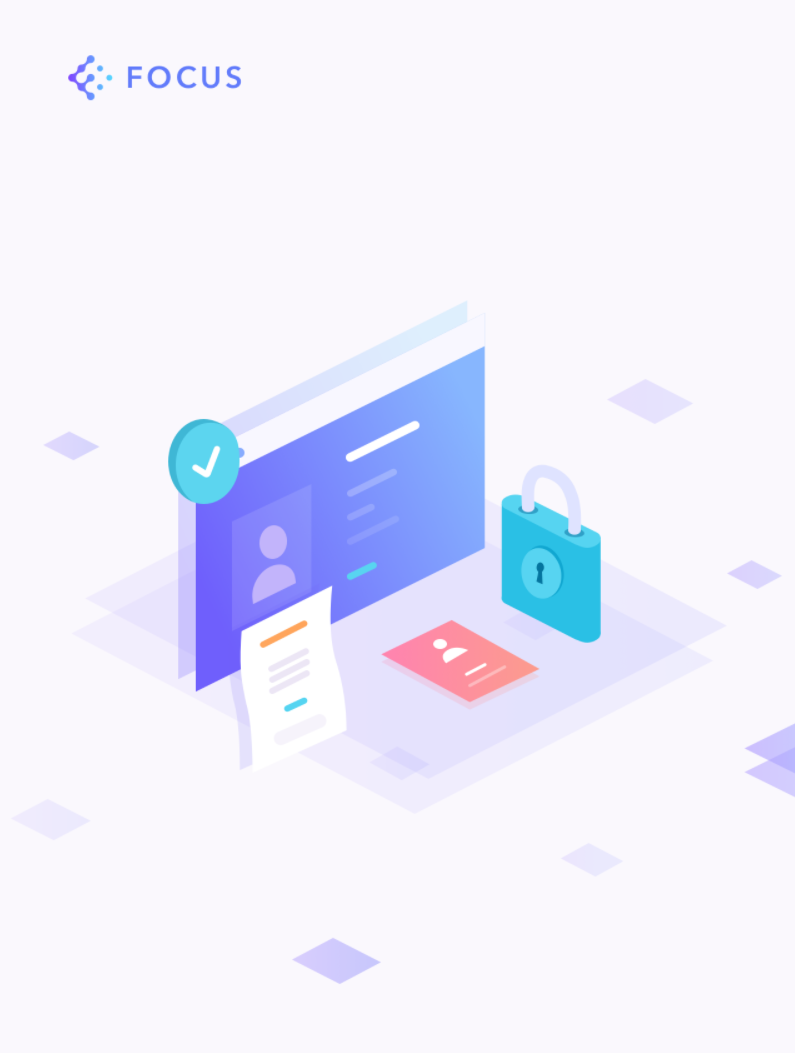
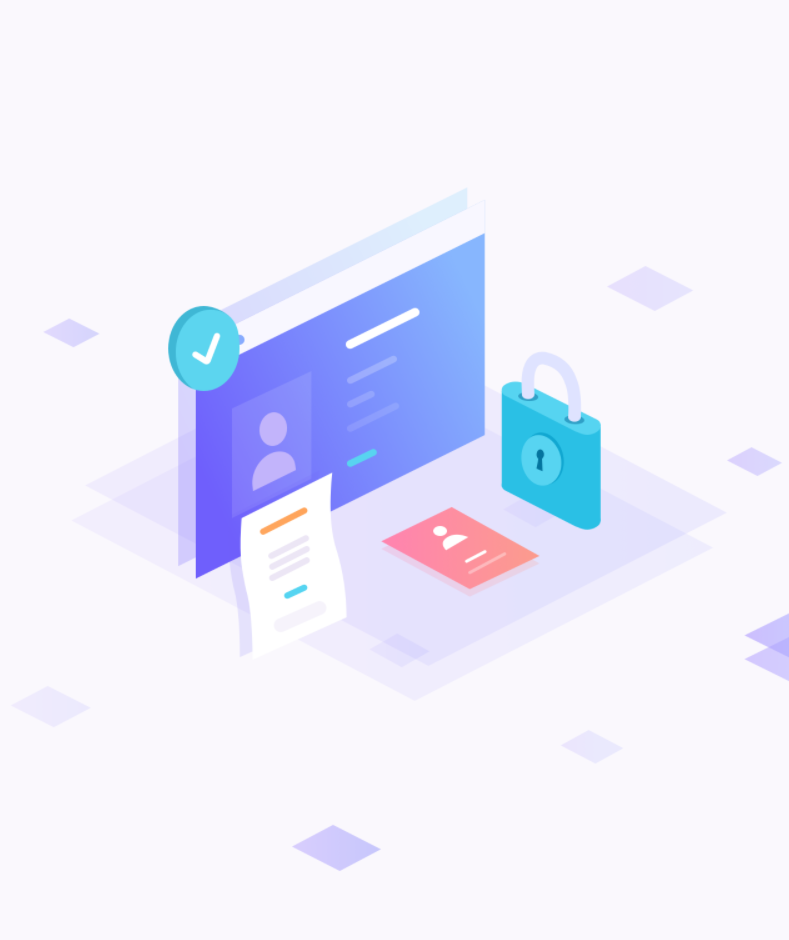
add comp cadastrar

diff --git a/src/app/pages/cadastrar/cadastrar.component.html b/src/app/pages/cadastrar/cadastrar.component.html
@@ -1,0 +1,48 @@
+<form [formGroup]="form" class="auth-container">
+  <div class="form-cadastro">
+    <mat-card class="cadastro">
+      <mat-card-header>
+        <mat-card-title>Dados Pessoais</mat-card-title>
+        <mat-card-subtitle>Faça seu cadastro é seguro e gratuito!</mat-card-subtitle>
+      </mat-card-header>
+      <mat-card-content>
+        <p>
+          <mat-form-field [appearance]="'fill'" class="cmp">
+            <mat-label>Nome Completo</mat-label>
+            <input matInput formControlName="nome" required placeholder="Nome Completo" type="text" required>
+            <mat-error>Nome Completo obrigatório</mat-error>
+          </mat-form-field>
+        </p>
+
+        <p>
+          <mat-form-field [appearance]="'fill'" class="cmp">
+            <mat-label>E-mail</mat-label>
+            <input matInput formControlName="email" required placeholder="seu@email.com" type="email" required>
+            <mat-error>Email obrigatório</mat-error>
+          </mat-form-field>
+        </p>
+
+        <p>
+          <mat-form-field [appearance]="'fill'" class="cmp">
+            <mat-label>Senha</mat-label>
+            <input matInput type="password" formControlName="senha" required>
+            <mat-error>Senha obrigatória</mat-error>
+          </mat-form-field>
+        </p>
+
+        <p>
+          <mat-form-field [appearance]="'fill'" class="cmp">
+            <mat-label>Confirmar Senha</mat-label>
+            <input matInput type="password" formControlName="senha" required>
+            <mat-error>Confirmar Senha obrigatória</mat-error>
+          </mat-form-field>
+        </p>
+      </mat-card-content>
+      <mat-card-actions>
+        <button  color="primary" mat-button [disabled]="form.invalid">Cadastrar-se</button>
+      </mat-card-actions>
+      <mat-error *ngIf="mensagemError">{{mensagemError}}</mat-error>
+    </mat-card>
+  </div>
+</form>
+

diff --git a/src/app/pages/login/login.component.ts b/src/app/pages/login/login.component.ts
@@ -1,5 +1,7 @@
+import { AuthService } from './../../services/auth.service';
 import { Component, OnInit } from '@angular/core';
-import { FormControl, FormGroup } from '@angular/forms';
+import { FormControl, FormGroup, FormBuilder, Validators } from '@angular/forms';
+import { Router } from '@angular/router';
 
 @Component({
   selector: 'app-login',
@@ -8,14 +10,46 @@ import { FormControl, FormGroup } from '@angular/forms';
 })
 export class LoginComponent implements OnInit {
 
-  constructor() { }
+  public mensagemError: string = '';
+  public form: FormGroup;
 
-  public form: FormGroup = new FormGroup({
-    email: new FormControl(),
-    senha: new FormControl(),
-  });
+  constructor(
+    private router: Router,
+    private auth: AuthService,
+    private formBuilder: FormBuilder
+  ) {
+    this.form = this.formBuilder.group({
+      email: [null, Validators.compose([
+        Validators.required,
+        Validators.email
+      ])],
+      senha: [null, Validators.required]
+    });
+  }
 
   ngOnInit(): void {
+  }
+
+
+  public login() {
+    this.auth.logar(this.form.value).subscribe((resposta:  any) =>{
+        console.log(resposta);
+        this.auth.token = resposta.data.token;
+        this.mensagemError = '';
+        this.router.navigateByUrl('admin');
+        return;
+    },
+    error =>{
+      console.log(error);
+      this.mensagemError = error.error.message;
+      setTimeout(() => {
+        this.mensagemError = '';
+      }, 5000);
+    });
+  }
+
+  public cadastrar(): void {
+    this.router.navigateByUrl('cadastrar');
   }
 
 }

diff --git a/src/app/app.module.ts b/src/app/app.module.ts
@@ -1,3 +1,4 @@
+import { HttpClientModule } from '@angular/common/http';
 import { MaterialModule } from './modules/material.module';
 
 import { NgModule } from '@angular/core';
@@ -10,12 +11,14 @@ import { FormsModule, ReactiveFormsModule } from '@angular/forms';
 import { AppComponent } from './app.component';
 import { LoginComponent } from './pages/login/login.component';
 import { AdminComponent } from './pages/admin/admin.component';
+import { CadastrarComponent } from './pages/cadastrar/cadastrar.component';
 
 @NgModule({
   declarations: [
     AppComponent,
     LoginComponent,
-    AdminComponent
+    AdminComponent,
+    CadastrarComponent
   ],
   imports: [
     BrowserModule,
@@ -23,7 +26,8 @@ import { AdminComponent } from './pages/admin/admin.component';
     BrowserAnimationsModule,
     FormsModule,
     ReactiveFormsModule,
-    MaterialModule
+    MaterialModule,
+    HttpClientModule
   ],
   providers: [],
   bootstrap: [AppComponent]

diff --git a/src/app/pages/cadastrar/cadastrar.component.ts b/src/app/pages/cadastrar/cadastrar.component.ts
@@ -1,0 +1,33 @@
+import { FormGroup, FormBuilder, Validators } from '@angular/forms';
+import { Component, OnInit } from '@angular/core';
+
+@Component({
+  selector: 'app-cadastrar',
+  templateUrl: './cadastrar.component.html',
+  styleUrls: ['./cadastrar.component.css']
+})
+export class CadastrarComponent implements OnInit {
+
+  public mensagemError: string = '';
+  public form: FormGroup;
+
+  constructor(
+    private formBuilder: FormBuilder
+  ) {
+    this.form = this.formBuilder.group({
+      nome: [null, Validators.required],
+      email: [null, Validators.compose([
+        Validators.required,
+        Validators.email
+      ])],
+      senha: [null, Validators.required],
+      confirmarSenha: [null, Validators.required]
+    });
+   }
+
+   ngOnInit() {
+
+   }
+
+
+}

diff --git a/src/styles.css b/src/styles.css
@@ -31,3 +31,36 @@ body { margin: 0; font-family: Roboto, "Helvetica Neue", sans-serif; }
 ::-webkit-scrollbar-thumb:hover {
   background: #673ab7;
 }
+
+.auth-container {
+  width: 100%;
+  height: 100%;
+  background-image: url('assets/ilustracao-login.png');
+  display: flex;
+  justify-content: center;
+  background-position: bottom;
+}
+.auth-container mat-card {
+  margin-top: 5%;
+  height: 400px;
+  display: flex;
+}
+
+.auth-container mat-card-field {
+  width: 100%;
+  max-width: 500px;
+}
+
+.auth-container mat-form-field{
+  width: 100%;
+  margin-bottom: 16px;
+}
+
+.auth-container mat-card-content{
+  padding-top: 32px;
+}
+
+.auth-container mat-card-actions{
+  display: flex;
+  justify-content: flex-end;
+}

diff --git a/src/app/pages/cadastrar/cadastrar.component.spec.ts b/src/app/pages/cadastrar/cadastrar.component.spec.ts
@@ -1,0 +1,25 @@
+import { ComponentFixture, TestBed } from '@angular/core/testing';
+
+import { CadastrarComponent } from './cadastrar.component';
+
+describe('CadastrarComponent', () => {
+  let component: CadastrarComponent;
+  let fixture: ComponentFixture<CadastrarComponent>;
+
+  beforeEach(async () => {
+    await TestBed.configureTestingModule({
+      declarations: [ CadastrarComponent ]
+    })
+    .compileComponents();
+  });
+
+  beforeEach(() => {
+    fixture = TestBed.createComponent(CadastrarComponent);
+    component = fixture.componentInstance;
+    fixture.detectChanges();
+  });
+
+  it('should create', () => {
+    expect(component).toBeTruthy();
+  });
+});

diff --git a/src/app/pages/login/login.component.html b/src/app/pages/login/login.component.html
@@ -1,8 +1,6 @@
 <div class="background-login">
 
-  <div class="ilustracao">
-
-  </div>
+  <div class="ilustracao"></div>
 
   <div class="form-login">
 
@@ -33,8 +31,10 @@
 
         </mat-card-content>
         <mat-card-actions align="end">
-            <button color="primary" mat-button>Entrar</button>
+            <button mat-button  (click)="cadastrar()">Cadastre-se</button>
+            <button [disabled]="form.invalid" color="primary" mat-button (click)="login()">Entrar</button>
         </mat-card-actions>
+        <mat-error *ngIf="mensagemError !== '' ">{{mensagemError}}</mat-error>
       </mat-card>
     </form>
 

diff --git a/src/app/app-routing.module.ts b/src/app/app-routing.module.ts
@@ -1,3 +1,4 @@
+import { CadastrarComponent } from './pages/cadastrar/cadastrar.component';
 import { AdminComponent } from './pages/admin/admin.component';
 import { LoginComponent } from './pages/login/login.component';
 import { NgModule } from '@angular/core';
@@ -6,6 +7,7 @@ import { Routes, RouterModule } from '@angular/router';
 const routes: Routes = [
   {path: '', redirectTo: 'login', pathMatch: 'full' },
   { path: 'login', component: LoginComponent},
+  { path: 'cadastrar', component: CadastrarComponent},
   {
     path: 'admin', component: AdminComponent,
     children: [

diff --git a/src/app/services/auth.service.ts b/src/app/services/auth.service.ts
@@ -1,0 +1,23 @@
+import { environment } from './../../environments/environment';
+import { HttpClient } from '@angular/common/http';
+import { Injectable } from '@angular/core';
+
+@Injectable({
+  providedIn: 'root'
+})
+export class AuthService {
+
+  public token: string;
+  constructor(
+    private http: HttpClient
+  ) { }
+
+  public logar(login: any) {
+    const api = environment.api + `/auth`;
+    return this.http.post(api, {'email': login.email, 'senha': login.senha});
+  }
+
+  public cadastrar() {
+
+  }
+}

diff --git a/src/app/pages/cadastrar/cadastrar.component.css b/src/app/pages/cadastrar/cadastrar.component.css
@@ -1,0 +1,33 @@
+.cadastro-container {
+  display: flex;
+  align-items: center;
+  justify-content: center;
+  height: 100%;
+  background-color: #f1f1f1;
+
+}
+
+.form-cadastro {
+  margin-top: 5%;
+  display: flex;
+  width: 450px;
+
+}
+
+.cadastro {
+  width: 100%;
+  background-color: #faf8fdf7;
+  box-shadow: none;
+  flex-flow: column;
+  padding: 2%;
+  height: 550px;
+}
+.cmp {
+  width: 90%;
+}
+.clear {
+  width: 100%;
+  display: block;
+  clear: both;
+  height: 1px;
+}

diff --git a/src/app/services/auth.service.spec.ts b/src/app/services/auth.service.spec.ts
@@ -1,0 +1,16 @@
+import { TestBed } from '@angular/core/testing';
+
+import { AuthService } from './auth.service';
+
+describe('AuthService', () => {
+  let service: AuthService;
+
+  beforeEach(() => {
+    TestBed.configureTestingModule({});
+    service = TestBed.inject(AuthService);
+  });
+
+  it('should be created', () => {
+    expect(service).toBeTruthy();
+  });
+});

diff --git a/src/app/pages/login/login.component.css b/src/app/pages/login/login.component.css
@@ -5,8 +5,9 @@
 }
 
 .ilustracao {
-  flex-grow: 2.2;
+  flex-grow: 5;
   background-image: url('../../../assets/ilustracao-login.png');
+  background-position: bottom;
 
 }
 
@@ -22,7 +23,7 @@
 }
 
 .login-container {
-  width: 80%;
+  width: 350px;
 }
 
 .cmp-login {
